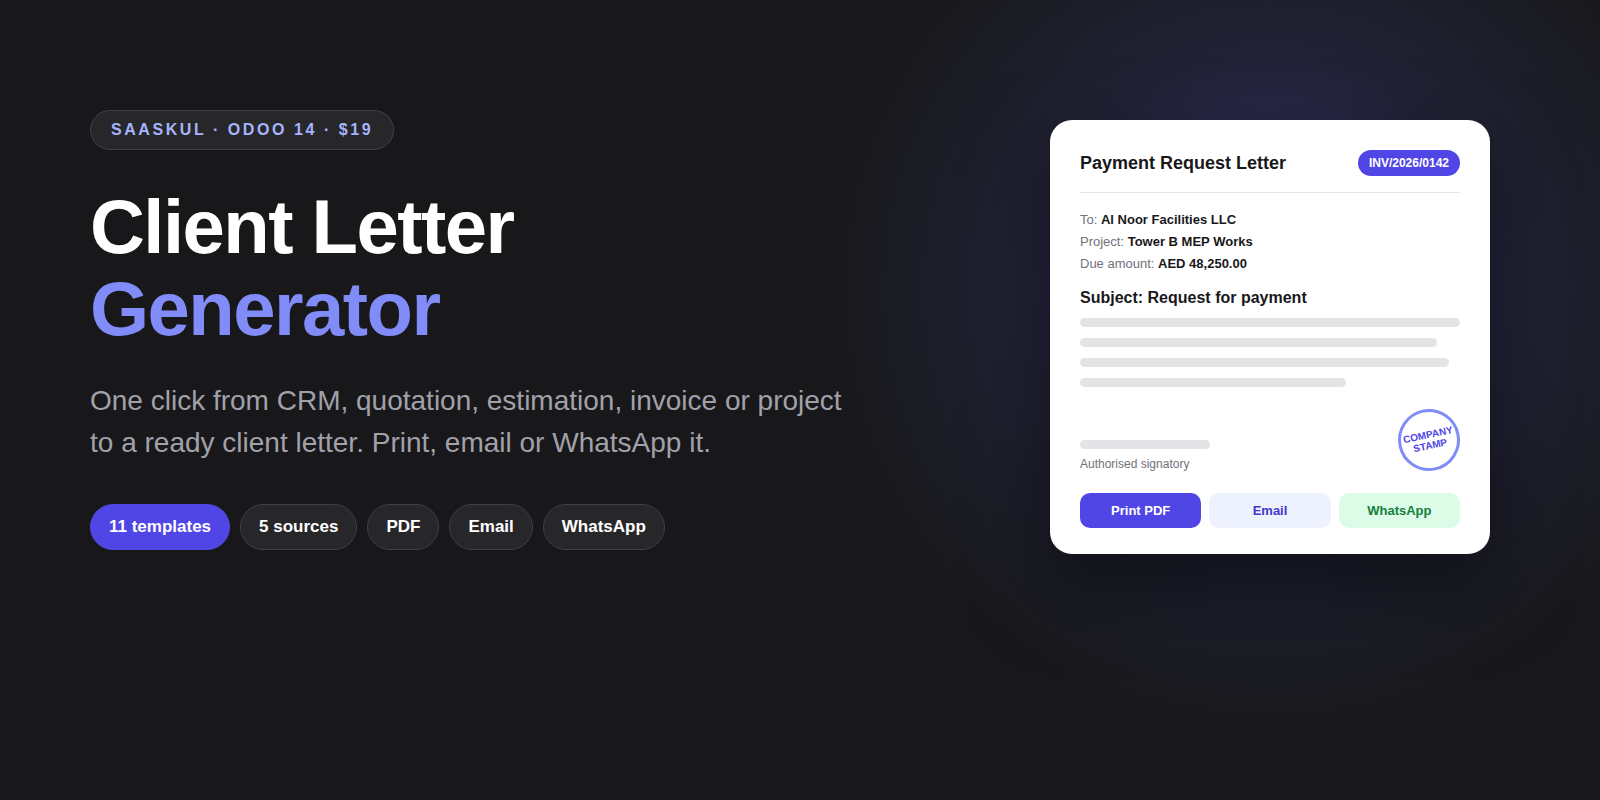
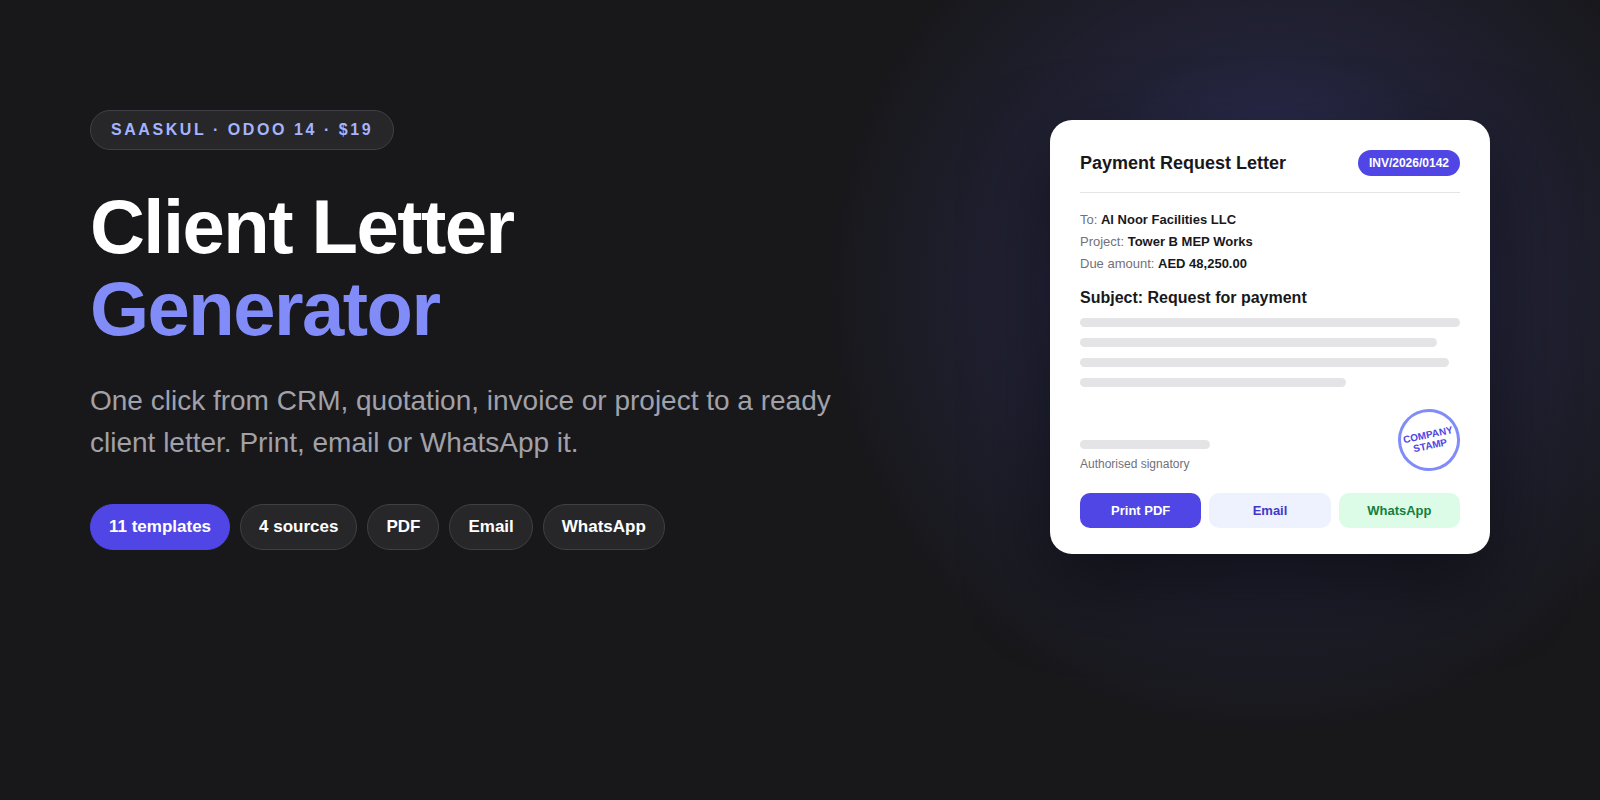
Remove paid cost_estimate dependency

Changed region(s): [[0.0625, 0.4688, 0.5312, 0.5625]]

diff --git a/client_letter_saaskul/static/description/index.html b/client_letter_saaskul/static/description/index.html
@@ -14,7 +14,7 @@
     </h1>
     <p style="font-size:19px;line-height:1.6;color:#A1A1AA;max-width:720px;margin:0 auto 26px;">
       Write client letters from the record you are already on. Client, reference numbers, amounts and scope
-      come from the CRM opportunity, quotation, estimation, invoice or project. Print it, email it or send it on WhatsApp.
+      come from the CRM opportunity, quotation, invoice or project. Print it, email it or send it on WhatsApp.
     </p>
     <div style="margin:0 auto 24px;">
       <a href="#cl-templates" style="display:inline-block;background-color:#4F46E5;color:#FFFFFF;padding:14px 28px;border-radius:12px;font-weight:800;font-size:15px;margin:5px;text-decoration:none;">See the templates</a>
@@ -34,8 +34,8 @@
         <div style="font-size:13px;color:#A1A1AA;font-weight:600;">ready letter templates</div>
       </div>
       <div class="col-6 col-md-3" style="padding-top:12px;padding-bottom:12px;">
-        <div style="font-size:34px;font-weight:800;color:#818CF8;">5</div>
-        <div style="font-size:13px;color:#A1A1AA;font-weight:600;">source documents</div>
+        <div style="font-size:34px;font-weight:800;color:#818CF8;">4</div>
+        <div style="font-size:13px;color:#A1A1AA;font-weight:600;">source documents (+ Estimation add-on)</div>
       </div>
       <div class="col-6 col-md-3" style="padding-top:12px;padding-bottom:12px;">
         <div style="font-size:34px;font-weight:800;color:#818CF8;">3</div>
@@ -88,7 +88,7 @@
   <div style="font-family:Inter,'Segoe UI',Roboto,Helvetica,Arial,sans-serif;padding:40px 0 20px;">
     <div style="text-align:center;margin-bottom:30px;">
       <div style="font-size:12px;font-weight:800;letter-spacing:0.14em;text-transform:uppercase;color:#4F46E5;margin-bottom:10px;">Where it works</div>
-      <h2 style="font-size:32px;font-weight:800;color:#18181B;margin:0 0 10px;">A "Send Client Letter" button on 5 documents</h2>
+      <h2 style="font-size:32px;font-weight:800;color:#18181B;margin:0 0 10px;">A "Send Client Letter" button on 4 documents</h2>
       <p style="font-size:16px;color:#71717A;max-width:660px;margin:0 auto;line-height:1.7;">The button sits in the form header. It opens the letter wizard with that record already selected.</p>
     </div>
     <div class="row">
@@ -104,8 +104,8 @@
       </div></div>
       <div class="col-md-6 col-lg-4" style="margin-bottom:16px;"><div class="h-100" style="background-color:#FFFFFF;border:1px solid #E4E4E7;border-radius:16px;padding:22px;">
         <div style="display:inline-block;font-family:'JetBrains Mono',Consolas,monospace;font-size:12px;font-weight:700;color:#FFFFFF;background-color:#4F46E5;border-radius:8px;padding:6px 9px;margin-bottom:12px;">EST</div>
-        <h3 style="font-size:17px;font-weight:800;color:#18181B;margin:0 0 6px;">Estimation</h3>
-        <p style="font-size:14px;color:#71717A;line-height:1.6;margin:0;">Estimate reference, total, payment terms and a material, labour and overhead breakdown.</p>
+        <h3 style="font-size:17px;font-weight:800;color:#18181B;margin:0 0 6px;">Estimation <span style="font-weight:400;color:#71717A;">(optional add-on)</span></h3>
+        <p style="font-size:14px;color:#71717A;line-height:1.6;margin:0;">Only with the separate cost estimation add-on: estimate reference, total, payment terms and a material, labour and overhead breakdown.</p>
       </div></div>
       <div class="col-md-6 col-lg-4" style="margin-bottom:16px;"><div class="h-100" style="background-color:#FFFFFF;border:1px solid #E4E4E7;border-radius:16px;padding:22px;">
         <div style="display:inline-block;font-family:'JetBrains Mono',Consolas,monospace;font-size:12px;font-weight:700;color:#18181B;background-color:#FBBF24;border-radius:8px;padding:6px 9px;margin-bottom:12px;">INV</div>
@@ -162,7 +162,7 @@
       <div class="col-md-6 col-lg-3" style="margin-bottom:16px;"><div class="h-100" style="background-color:#FFFFFF;border:1px solid #E4E4E7;border-radius:16px;padding:22px;">
         <div style="font-size:30px;font-weight:800;color:#4F46E5;margin-bottom:8px;">1</div>
         <h3 style="font-size:17px;font-weight:800;color:#18181B;margin:0 0 6px;">Click Send Client Letter</h3>
-        <p style="font-size:14px;color:#71717A;line-height:1.6;margin:0;">On the opportunity, quotation, estimation, invoice or project.</p>
+        <p style="font-size:14px;color:#71717A;line-height:1.6;margin:0;">On the opportunity, quotation, invoice or project.</p>
       </div></div>
       <div class="col-md-6 col-lg-3" style="margin-bottom:16px;"><div class="h-100" style="background-color:#FFFFFF;border:1px solid #E4E4E7;border-radius:16px;padding:22px;">
         <div style="font-size:30px;font-weight:800;color:#4F46E5;margin-bottom:8px;">2</div>
@@ -231,7 +231,7 @@
     <div class="row">
       <div class="col-md-6" style="padding:8px 12px;">
         <div style="font-size:12px;font-weight:800;letter-spacing:0.12em;text-transform:uppercase;color:#4F46E5;margin-bottom:8px;">Requirements</div>
-        <p style="margin:0;font-size:15px;color:#3F3F46;line-height:1.7;">Odoo <b>14.0</b> Community or Enterprise<br/>Required apps: CRM, Sales, Invoicing, Project, Discuss<br/>Plus the Saaskul cost estimation module for estimations</p>
+        <p style="margin:0;font-size:15px;color:#3F3F46;line-height:1.7;">Odoo <b>14.0</b> Community or Enterprise<br/>Required apps: CRM, Sales, Invoicing, Project, Discuss<br/>Estimation letters need the separate cost estimation add-on</p>
       </div>
       <div class="col-md-6" style="padding:8px 12px;">
         <div style="font-size:12px;font-weight:800;letter-spacing:0.12em;text-transform:uppercase;color:#4F46E5;margin-bottom:8px;">Technical name</div>

diff --git a/client_letter_saaskul/models/client_letter_document.py b/client_letter_saaskul/models/client_letter_document.py
@@ -9,13 +9,7 @@ class ClientLetterDocument(models.Model):
 
     name = fields.Char(default="New", readonly=True, copy=False, tracking=True)
     source_ref = fields.Reference(
-        selection=[
-            ("crm.lead", "CRM / Opportunity"),
-            ("sale.order", "Quotation"),
-            ("job.estimate", "Estimation"),
-            ("account.move", "Customer Invoice"),
-            ("project.project", "Project"),
-        ],
+        selection="_selection_source_models",
         string="Source Document",
         tracking=True,
     )
@@ -48,6 +42,10 @@ class ClientLetterDocument(models.Model):
         "attachment_id",
         string="Attachments",
     )
+
+    @api.model
+    def _selection_source_models(self):
+        return self.env["client.letter.wizard"]._selection_source_models()
 
     @api.model
     def create(self, vals):

diff --git a/client_letter_saaskul/wizard/client_letter_wizard.py b/client_letter_saaskul/wizard/client_letter_wizard.py
@@ -80,13 +80,16 @@ class ClientLetterWizard(models.TransientModel):
 
     @api.model
     def _selection_source_models(self):
-        return [
+        # Estimation (job.estimate) is listed only when the optional cost
+        # estimation module, and its bridge, are installed.
+        models_list = [
             ("crm.lead", "CRM / Opportunity"),
             ("sale.order", "Quotation"),
             ("job.estimate", "Estimation"),
             ("account.move", "Customer Invoice"),
             ("project.project", "Project"),
         ]
+        return [(model, label) for model, label in models_list if model in self.env]
 
     @api.depends("source_ref")
     def _compute_source_meta(self):

diff --git a/client_letter_saaskul/__manifest__.py b/client_letter_saaskul/__manifest__.py
@@ -12,7 +12,7 @@ letter can be printed as PDF, emailed, shared on WhatsApp or saved as a
 tracked letter record. Ships with 11 ready letter templates and lets users
 save their own.
     """,
-    "version": "14.0.1.0.0",
+    "version": "14.0.1.0.1",
     "category": "Sales/CRM",
     "author": "Saaskul",
     "website": "https://saaskul.com",
@@ -30,7 +30,6 @@ save their own.
         "account",
         "project",
         "mail",
-        "cost_estimate_customer_ld",
     ],
     "data": [
         "security/ir.model.access.csv",

diff --git a/client_letter_saaskul/models/source_actions.py b/client_letter_saaskul/models/source_actions.py
@@ -41,10 +41,3 @@ class ProjectProject(models.Model):
 
     def action_open_client_letter_wizard(self):
         return _client_letter_action(self)
-
-
-class JobEstimate(models.Model):
-    _inherit = "job.estimate"
-
-    def action_open_client_letter_wizard(self):
-        return _client_letter_action(self)
